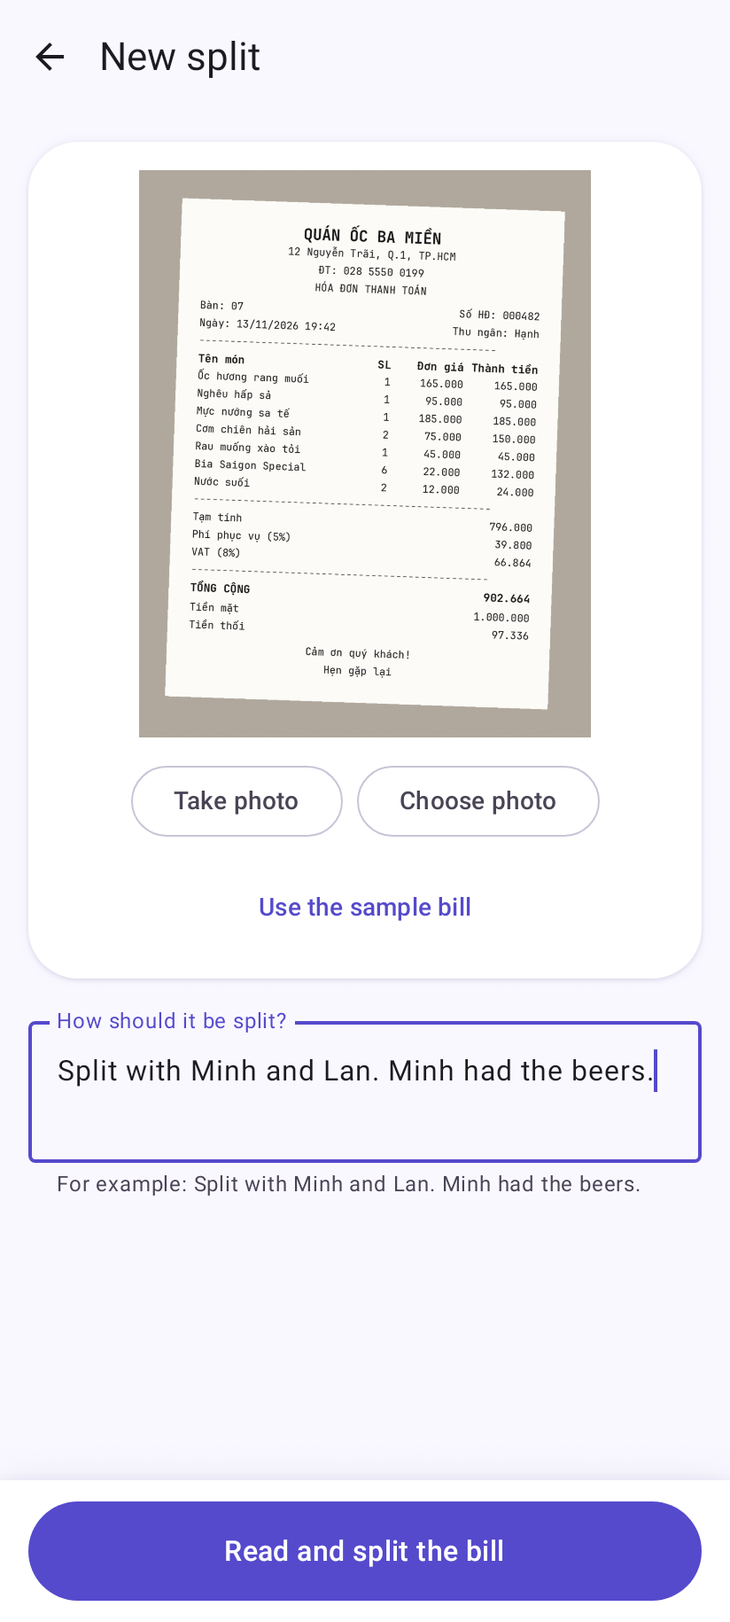
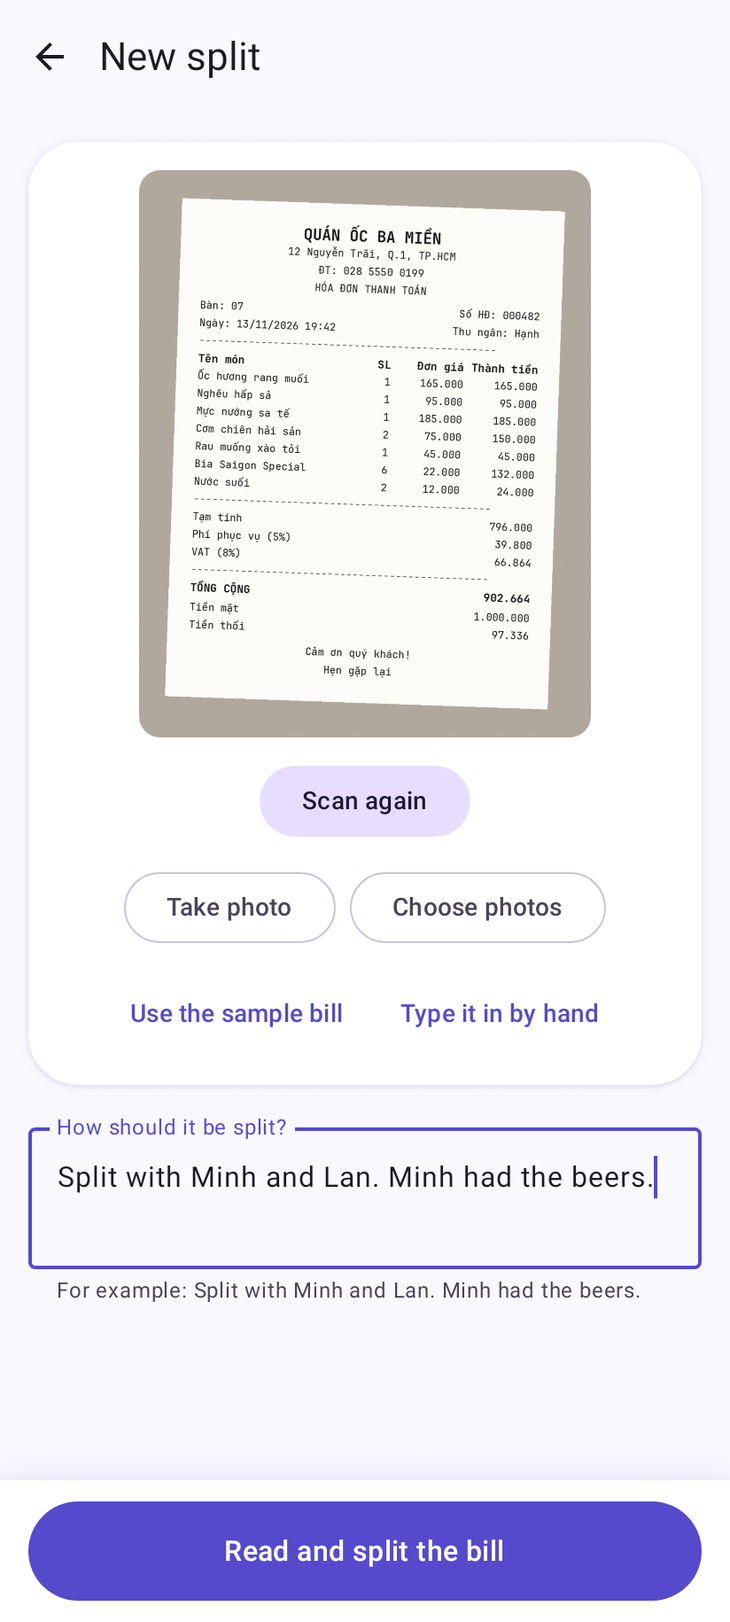
docs: describe the bills kept on the phone, the editor, scanning and split modes

Changed region(s): [[0.0303, 0.623, 0.9709, 0.7787], [0.2427, 0.4672, 0.7585, 0.5918], [0.0607, 0.7787, 0.8799, 0.8098]]

diff --git a/README.md b/README.md
@@ -3,10 +3,11 @@
 A proof-of-concept Android app (Kotlin, Jetpack Compose) for an AI "split bill" feature inside a
 payment app.
 
-You photograph a bill and type how it should be split. The phone reads the text of the bill with
-on-device OCR and sends that text and its position on the page to the app's AI proxy, a Cloudflare
-Worker that asks Claude and sends the bill back as structured data. The app then does the
-arithmetic itself and lets you pick the contacts who share the bill and who shares each item. The
+You scan or photograph a bill, in several pages if it is long, and type how it should be split.
+The phone reads the text of the bill with on-device OCR and sends that text and its position on the
+page to the app's AI proxy, a Cloudflare Worker that asks Claude and sends the bill back as
+structured data. The app then does the arithmetic itself: you correct anything that was misread,
+choose who is on the bill, how it is split and who paid, and every bill is kept on the phone. The
 app holds no API key.
 
 ```mermaid
@@ -17,20 +18,34 @@ flowchart LR
     P --> D[Claude Opus]
     D --> E[Items, charges, total, people named in the instruction]
     E --> F[Split calculator on the device]
-    F --> G[Pick people, assign items, request money]
+    F --> G[Correct the bill, choose people, split mode and payers]
+    G --> H[Bills kept on the phone]
 ```
 
 <img src="docs/screenshots/new-split.png" alt="New split screen with the sample bill and an instruction" width="300">
 
 ## What the app does
 
-1. **Home** shows the in-app contacts (other users of the payment app) and a "Split a bill" entry.
-2. **New split** takes a bill photo (camera, gallery, or the bundled sample bill) and an instruction
-   such as `Split with Minh and Lan. Minh had the beers.` or `We are 3, I didn't drink.`
-3. **Result** shows the items, the taxes and fees, and the total. People named in the instruction are
-   matched to contacts and pre-selected. You can add or remove people, tap an item to choose who
-   shares it, and see what each person pays. The shares always add up to the bill total.
-4. **Request** confirms the amounts that would be requested from each person. This step is a mock.
+1. **Home** shows the latest bills and a "Split a bill" entry. **See all** opens every bill kept on
+   the phone, to search by place, item or person, open again or delete.
+2. **New split** takes the bill and an instruction such as `Split with Minh and Lan. Minh had the
+   beers.` or `We are 3, I didn't drink.` The bill comes from Google's document scanner, which finds
+   its edges, straightens it and takes up to five pages; from the camera or the photo picker; from a
+   photo shared by another app; from the bundled sample bill; or it is typed in by hand.
+3. **Result** shows the items, the taxes and fees, and the total, and, for a bill in another
+   currency, what it comes to in your own at the day's rate or a rate you type in.
+   - **Who is on the bill:** everyone named in the instruction, anyone you add by name or from the
+     people you split with before, and anyone you pick in the phone's contact picker.
+   - **How it is split:** equally, by item, by shares, by percent or by exact amounts. Each item can
+     be divided its own way too.
+   - **Who paid:** one person, or several with an amount each.
+   - Every share is shown, and the shares always add up to the bill total.
+4. **Edit bill** corrects every item, quantity, price, tax, fee, discount and the total. When the
+   lines and the printed total disagree, it shows by how much and offers two ways to settle it.
+5. **Request** confirms the amounts that would be requested from each person. This step is a mock.
+   A finished split stays in the list and can be changed later.
+
+Every change is saved as a draft as it is made, so a split survives the app being closed.
 
 ## Run it
 
@@ -137,45 +152,66 @@ didn't drink"), which leaves it to everyone else. The model does not compute any
 - The currency and its precision come from the bill. A bill is never split finer than its prices
   are printed, and never finer than the currency allows. So a rupiah, forint or dong bill is split
   in whole units, and a dollar bill printed with cents is split to the cent.
-- A bill that shows no currency is taken to be in the app's local currency (Settings). A bill in a
-  different currency is split in its own currency and marked with a note; nothing is converted.
-- `BillReconciler` checks that items plus charges equal the total. If they do not, the printed total
-  wins and the gap is shown as an explicit "Unallocated difference" line with a warning. A line with
-  a negative amount, such as a voucher, is treated as a deduction on the whole bill.
-- `SplitCalculator` applies these rules:
-  - an item is shared equally by the people assigned to it, or by everyone when it is unassigned;
+- A bill that shows no currency is taken to be in the app's local currency (Settings). A bill in
+  another currency is split in its own currency. `ExchangeRate` also shows it in the local one, at
+  the day's rate the proxy hands out or at a rate the user types in; the shares stay in the bill's
+  currency.
+- `BillReconciler` turns a line with a negative amount, such as a voucher, into a deduction on the
+  whole bill. When the lines do not add up to the printed total, the printed total wins, the gap is
+  shared in proportion and shown, and `BillEditor` offers to use the lines as the total or to keep
+  the total and add the difference as a line.
+- `SplitCalculator` divides the whole bill equally, by shares, by percent (in hundredths) or by exact
+  amounts, or item by item:
+  - an item is shared equally by the people who had it, or divided its own way;
   - items shared by exactly the same group are added up and divided once;
   - taxes, fees, tips and discounts follow each person's items proportionally;
-  - with no assignments at all, the whole bill is divided equally;
-  - the unit that cannot be divided goes to the first person in the list, and the payer is listed first.
-- `SplitPlanner` and `NameMatcher` match the names from the instruction against the contact list on the
-  device. A contact is pre-selected only when the typed name is that person's full name, handle or
-  given name and nobody else fits as well. A surname or middle name alone, a name shared by two
-  contacts, or an unknown name is never guessed: the app shows a notice and the user picks the person.
+  - a part that cannot be divided goes by the largest remainder, or to the first person in the list,
+    and the user is listed first.
+- `SplitPlanner` turns every name in the instruction into someone on the bill. A name that is exactly
+  that of someone split with before is that person again; any other name is someone new, named as
+  typed, whom the user can rename. `NameMatcher` also suggests people split with before as a name
+  is typed.
+- `Payments` checks that what the payers paid adds up to the bill total. A split with a problem, such
+  as percentages that do not add up to 100, has no shares until it is fixed, and cannot be finished.
+
+### 4. Bills stay on the phone
+
+`BillRepository` keeps every bill in a Room database on the phone: the bill, who is on it, how it is
+split, who paid and the shares worked out from that. Each save writes the whole bill as the next
+revision, and a save from a copy that is no longer the latest is refused, so two screens editing the
+same bill cannot overwrite each other. A finished bill that a change leaves unbalanced becomes a
+draft again. The photos of a bill's pages are kept in the app's own storage and deleted with it. The
+screen on show, the bill and the photos come back after the system ends the app.
 
 ### Privacy
 
-Only the OCR text and the typed instruction leave the phone. The photo is never uploaded, and the
-contact list is never sent: the model only repeats names that appear in the instruction. The proxy
-keeps no bill text, name or address: it holds counters under salted hashes, and logs one line of
-numbers per request.
+Only the OCR text and the typed instruction leave the phone. The photos are never uploaded, and the
+app holds no permission to read contacts: the system's contact picker hands it the one name picked.
+Bills, people and photos stay on the phone. The request for exchange rates says nothing about who
+asks. The proxy keeps no bill text, name or address: it holds counters under salted hashes, and logs
+one line of numbers per request.
 
 ## Project layout
 
 ```text
 core/designsystem/            the look of the app: theme, tokens, components, motion
 core/domain/                  plain Kotlin, no Android: the money logic and the data contracts
-  domain/     Bill, BillCurrency, BillReconciler, SplitCalculator, SplitPlan, NameMatcher
-  ocr/        OcrResult, OcrLayoutEncoder
+  domain/     Bill, BillCurrency, BillEditor, BillReconciler, ExchangeRate, Participant, Payment,
+              SplitCalculator, SplitMode, SplitPlan, NameMatcher
+  ocr/        OcrResult, OcrLayoutEncoder (one page or several)
   llm/        BillAnalyzer, BillAnalysisParser
-  data/       Contact
 app/src/main/java/com/dantech/splitvibe/
   di/         the Koin module that wires the app together
   ocr/        BillTextRecognizer (ML Kit), BillImageLoader
+  scan/       DocumentScanner (Google's document scanner)
   llm/        GatewayBillAnalyzer, which reads a bill through the AI proxy
-  data/       account (install id, encrypted session, Google sign-in), proxy (the proxy's
-              routes over OkHttp), contacts (seeded), settings (local currency)
-  ui/         navigation, home, split (new split, result, sheets, confirmation), settings, theme
+  data/       bills (Room database, revisions, page photos), people (people split with before,
+              names from the contact picker), fx (exchange rates kept for offline use), account
+              (install id, encrypted session, Google sign-in), proxy (the proxy's routes over
+              OkHttp), settings (local currency)
+  ui/         navigation, home, history, split (new split, result, sheets, confirmation), editor,
+              settings
+app/schemas/                  the Room database schema, one file per version
 app/src/test/                 unit tests, UI tests on the JVM and the reference screenshots
 app/src/androidTest/          on-device tests
 app/src/sharedTest/resources/ recorded ML Kit output, a recorded Claude answer, and the request
@@ -195,20 +231,25 @@ describes the AI proxy: its routes, its limits, what it keeps, and how to run an
 ./gradlew :core:domain:test :core:designsystem:testDebugUnitTest :app:testProdDebugUnitTest
 ```
 
-129 tests cover the split rules (including 2,000 random bills whose shares must add up to the
-total without anyone owing a negative amount), currency handling, name matching, split planning, row
-layout, answer parsing, the proxy client, the account and sign-in, the UI flow, app startup,
-navigation, the dependency wiring, the text contrast of the colour palette, the motion, and the
-design system components.
+222 tests cover the split rules (for each of the five ways to split, 2,000 random bills whose shares
+must add up to the total, and payments that must too), editing a bill, currency handling and
+exchange rates, name matching, split planning, row layout of one page or several, answer parsing,
+the bills kept on the phone and their revisions, the proxy client, the account and sign-in, the UI
+flow, app startup, navigation, the dependency wiring, the text contrast of the colour palette, the
+motion, and the design system components.
 
 - The proxy client tests run the real client against a local server that answers as the proxy does.
   They pin down the request, which must match the shared fixture the proxy's tests send, and every
   kind of answer: the bill, free reads used up, sign-in run out, AI switched off, app too old,
   rate limits, busy, refused, too long, timeout, and an answer that stops half way.
 - `SplitFlowTest` walks through the real screens without a device (Robolectric): sample photo,
-  instruction, analysis, people pre-selected, exact shares, changing who shares an item, request
-  confirmation. It replays two recordings of the real pipeline: the text ML Kit read on a device
-  and the answer Claude Opus gave for it, streamed the way the proxy sends it.
+  instruction, analysis, the people named, exact shares, changing who shares an item, request
+  confirmation and the saved bill. It replays two recordings of the real pipeline: the text ML Kit
+  read on a device and the answer Claude Opus gave for it, streamed the way the proxy sends it.
+- `BillLifecycleTest` and `BillSafetyTest` follow a bill through its life on the phone: a bill of
+  three items typed in by hand, an item corrected, a draft brought back after the system ends the
+  app, a bill in dollars shown in dong, a copy saved elsewhere, a finished split broken by a change,
+  and the cases where a bill must not be overwritten or lose a photo.
 - `ScreenGalleryTest` draws every screen in the light and the dark theme, and the four main screens
   with text at twice its size, and compares each with the reference image in
   `app/src/test/screenshots`. After an intended visual change, record new images with
@@ -242,8 +283,8 @@ The other checks, all of which also run in GitHub Actions for every pull request
 ./gradlew :app:lintProdDebug :core:designsystem:lintDebug
 ```
 
-The AI proxy has its own 81 tests, which run in the workers runtime against a fake model. From
-`proxy/`:
+The AI proxy has its own 96 tests, which run in the workers runtime against a fake model and a fake
+source of exchange rates. From `proxy/`:
 
 ```bash
 npm test
@@ -254,24 +295,25 @@ npm test
 | What | How | Result |
 |---|---|---|
 | Build | `./gradlew :app:assembleProdDebug :app:assembleProdRelease :app:bundleProdRelease` (R8) | all three build; the release is unsigned unless the signing variables are set |
-| Unit tests | `./gradlew :core:domain:test :core:designsystem:testDebugUnitTest :app:testProdDebugUnitTest` | 129 pass |
+| Unit tests | `./gradlew :core:domain:test :core:designsystem:testDebugUnitTest :app:testProdDebugUnitTest` | 222 pass |
 | UI flow | `SplitFlowTest` on the JVM, with the real screens, view model and proxy client | passes |
-| AI proxy | `npm run typecheck` and `npm test` in `proxy/` | 81 pass; each rule about calls, holds and spend was also broken on purpose to see its test fail |
-| On-device tests | `./gradlew :app:pixel6Api34ProdDebugAndroidTest` in GitHub Actions, on an Android 14 emulator that Gradle manages | 8 tests; the proxy client test on a device has not run yet |
+| AI proxy | `npm run typecheck` and `npm test` in `proxy/` | 96 pass; each rule about calls, holds and spend was also broken on purpose to see its test fail |
+| Exchange rates, live | `GET /v1/fx-rates` on the deployed proxy | 161 currencies with their day, VND, USD, EUR, INR and THB among them |
+| On-device tests | `./gradlew :app:pixel6Api34ProdDebugAndroidTest` in GitHub Actions, on an Android 14 emulator that Gradle manages | 8 pass, the sample bill split from the photo to the sent requests among them |
 | OCR | Real ML Kit on two rendered receipts (Vietnamese, tilted 2 degrees; US, tilted 3 degrees) | every item row came back with its prices on the same row |
 | Prompt and schema | The exact system prompt and schema, with the real ML Kit output, sent to Claude Opus 5.5 | items, charges and totals correct for English, Vietnamese and German instructions; tips, "X had", "X didn't have" and "I didn't have" understood; a noisy bill with misread digits and an injected instruction still reconciled; a parking sign was rejected as not a bill; a rupiah bill came back with zero decimals and a bill without a currency symbol in the app's local currency |
 
 What has not been verified:
 
-- **A live call through the proxy.** The proxy is tested against a fake model and the app against a
-  stand-in for the proxy; the request is the same in both. The proxy has not been deployed, so no
-  bill has gone from the app through the proxy to the live API yet. That needs the owner's
-  Cloudflare account, Anthropic key and Google OAuth clients ([docs/proxy.md](docs/proxy.md)).
+- **A live bill read through the proxy.** The proxy is deployed and hands out exchange rates, but
+  its Anthropic key is not set yet, so no bill has gone from the app through the proxy to the live
+  API. The proxy is tested against a fake model and the app against a stand-in for the proxy; the
+  request is the same in both ([docs/proxy.md](docs/proxy.md)).
+- **Scanning, sharing and picking contacts on a phone.** The document scanner needs Google Play
+  services, and a bill of two pages, a photo shared from the gallery and the system contact picker
+  have not been tried on a device yet.
 - **Google sign-in on a phone.** Credential Manager needs the OAuth clients, so sign-in has only been
   tested with a stand-in for Google's account picker.
-- **The screens after analysis on a device.** The home and new-split screens were seen running on
-  the emulator. The result, item and confirmation screens were exercised only in `SplitFlowTest`,
-  because the emulator session ended before the on-device walk-through finished.
 - **A physical phone.** Everything on-device ran on an emulator.
 - **The release build at runtime.** It builds with R8, but only debug builds were run.
 - **Performance numbers.** The benchmarks in `baseline-profile` exist but have not been run on a
@@ -281,24 +323,26 @@ What has not been verified:
 
 - **Free reads are per install.** Clearing the app's data makes a new install with 3 new reads. The
   proxy's limits per network address and its daily spend caps bound what that can cost.
-- **Mock data.** Contacts are seeded in `SeededContactRepository`, and "Request" creates nothing.
+- **"Request" creates nothing.** The app never moves money.
 - **Latin script only.** Chinese, Japanese, Korean and Devanagari need the matching ML Kit artifacts.
-- **No currency conversion.** A bill in another currency than the app's local currency stays in
-  its own currency. Converting would need an exchange rate source.
+- **Converted amounts are only shown.** A bill in another currency is split and kept in its own
+  currency; the day's rate comes from Frankfurter through the proxy and may be a day or two old.
+- **Bills stay on one phone.** There is no sync between devices yet, and clearing the app's data
+  deletes the bills.
 - **Bills printed without decimals are split in whole units**, including the rare dollar or euro bill
   that shows no cents.
 - **App size.** ML Kit ships native code for four CPU types, so the release APK is large; an app
   bundle splits it per device.
-- **State is in memory.** A split in progress survives rotation but not the app being killed.
 - **English UI strings** are written inline rather than in string resources.
-- **Very long bills** could exceed the answer token limit; the app then asks for two photos.
+- **Very long bills** could exceed the answer token limit; the app then asks to photograph only the
+  lines that matter, or to type the bill in by hand.
 
 ## Toolchain
 
 Android Gradle Plugin 9.1.1 (built-in Kotlin), Gradle 9.4.1, Kotlin 2.3.21, Compose BOM 2026.09.00
 (Compose UI 1.12.1) with material3 pinned to 1.5.0-rc01, compileSdk 37, targetSdk 36, minSdk 26,
-Koin 4.2.2, Navigation 3 1.2.1, ML Kit text-recognition 16.0.1, OkHttp 4.12.0, Credential Manager
-1.6.0 with Google ID 1.2.1. The AI proxy: TypeScript 5.9 on Cloudflare Workers with Durable Objects,
+Koin 4.2.2, Navigation 3 1.2.1, Room 2.8.5 with KSP 2.3.12, ML Kit text-recognition 16.0.1 and
+document scanner 16.0.0, OkHttp 4.12.0, Credential Manager 1.6.0 with Google ID 1.2.1. The AI proxy: TypeScript 5.9 on Cloudflare Workers with Durable Objects,
 wrangler 4.162.0, `@anthropic-ai/sdk` 1.8.0, jose 6.2.17, vitest 5.1.0.
 
 ## License

diff --git a/docs/architecture.md b/docs/architecture.md
@@ -8,29 +8,29 @@ only what is in the repository now.
 
 ```mermaid
 flowchart LR
-    app[":app<br/>screens, navigation, dependency wiring,<br/>ML Kit text recognition, the AI proxy client"]
+    app[":app<br/>screens, navigation, dependency wiring,<br/>ML Kit text recognition and scanning,<br/>the bills on the phone, the AI proxy client"]
     domain[":core:domain<br/>plain Kotlin: money, split rules,<br/>data contracts, answer parsing"]
     design[":core:designsystem<br/>theme, tokens,<br/>components, motion"]
     profile[":baseline-profile<br/>records the startup profile,<br/>holds the benchmarks"]
     app --> domain
     app --> design
     profile -. drives and measures .-> app
-    proxy["proxy/<br/>Cloudflare Worker:<br/>prompt, calls, limits, Claude"]
+    proxy["proxy/<br/>Cloudflare Worker:<br/>prompt, calls, limits, Claude,<br/>the day's exchange rates"]
     app -. HTTPS .-> proxy
 ```
 
 | Module | Kind | Holds |
 |---|---|---|
-| `:app` | Android application | Compose screens, `AppNavHost`, the Koin module, `MlKitBillTextRecognizer`, `GatewayBillAnalyzer` and `ProxyApi` (the proxy's routes over OkHttp), the account (install id, encrypted session, Google sign-in through Credential Manager), settings storage |
-| `:core:domain` | Kotlin JVM library | `Bill`, `BillCurrency`, `BillReconciler`, `SplitCalculator`, `SplitPlan`, `NameMatcher`, `Contact`, `OcrResult`, `OcrLayoutEncoder`, `BillAnalyzer`, `BillAnalysisParser` |
+| `:app` | Android application | Compose screens, `AppNavHost`, the Koin module, `MlKitBillTextRecognizer`, `DocumentScanner`, `GatewayBillAnalyzer` and `ProxyApi` (the proxy's routes over OkHttp), the bills kept on the phone (`SplitVibeDatabase`, `BillRepository`, `BillPages`), the people split with before (`PeopleRepository`, `ContactNames`), the exchange rates (`FxRepository`), the account (install id, encrypted session, Google sign-in through Credential Manager), settings storage |
+| `:core:domain` | Kotlin JVM library | `Bill`, `BillCurrency`, `BillEditor`, `BillReconciler`, `ExchangeRate`, `Participant`, `Person`, `Payment`, `SplitMode`, `SplitCalculator`, `SplitPlan`, `NameMatcher`, `OcrResult`, `OcrLayoutEncoder`, `BillAnalyzer`, `BillAnalysisParser` |
 | `:core:designsystem` | Android library | `SplitVibeTheme` (Material 3 Expressive, violet palette, light and dark); the colour, type, spacing, shape and elevation tokens; the components (`Sv…`); the motion pieces (`SvAmount`, `SvSteps`, `sharedSurface` and others) |
 | `:baseline-profile` | Android test module | `BaselineProfileGenerator`, `StartupBenchmark`, `SplitFlowBenchmark` |
 | `proxy/` | Cloudflare Worker, TypeScript | the prompt and answer schema, the calls per install and per Google account, the limits per address, the daily spend caps, the Google ID token check and the proxy's own session; described in [proxy.md](proxy.md) |
 
 `:core:domain` applies only the Kotlin JVM plugin, so it cannot import an Android class. Everything
 that decides how much a person pays lives there and is tested without a device. The package names
-are the same in both modules (`com.dantech.splitvibe.domain`, `.ocr`, `.llm`, `.data.contacts`), so
-moving a file between them does not change any import.
+are the same in both modules (`com.dantech.splitvibe.domain`, `.ocr`, `.llm`), so moving a file
+between them does not change any import.
 
 `:core:designsystem` owns how the app looks. A screen wraps itself in nothing: `MainActivity` applies
 `SplitVibeTheme` once, and screens read colours, type and elevation from it.
@@ -51,7 +51,7 @@ are worth knowing before changing it:
 
 ### Dependency wiring
 
-`di/AppModule.kt` is one Koin module that lists every long-lived object and the view model.
+`di/AppModule.kt` is one Koin module that lists every long-lived object and the view models.
 `SplitVibeApp` starts Koin when the process starts. Screens get objects with `koinViewModel()` and
 `koinInject()`.
 
@@ -62,7 +62,7 @@ A wiring mistake fails the checks instead of crashing a screen.
 ### Navigation
 
 `ui/AppNavHost.kt` uses Navigation 3. The back stack is a list of keys (`HomeKey`, `SplitKey`,
-`SettingsKey`) that the screen code owns directly:
+`HistoryKey`, `SettingsKey`) that the screen code owns directly:
 
 - The keys are `@Serializable`, so the list is saved with the activity and the open screens come
   back after the system recreates it.
@@ -73,13 +73,16 @@ A wiring mistake fails the checks instead of crashing a screen.
   shrinks back into it during that preview (`Modifier.sharedSurface`). A screen that needs back for something else declares a
   `BackHandler`, and that one wins while it is enabled. `SplitScreen` uses this to cancel running
   work before it lets the user leave.
-- Inside the split screen the three steps (photo, result, sent requests) follow from the view
+- Inside the split screen the four steps (photo, editor, result, sent requests) follow from the view
   model's state and fade into each other through `SvSteps`. Each step carries the state it shows,
   so a step that is being left is drawn unchanged while it fades out, and back always belongs to
   the step on screen. The button that sends the requests turns into the mark that confirms them.
 - Two decorators wrap every screen: one keeps `rememberSaveable` state per screen, the other gives
   each screen its own view model store. `SplitBillViewModel` is requested above `NavDisplay` on
   purpose, so a split in progress survives a visit to Settings.
+- A bill opened from Home or the list of bills opens the split screen on its result, and back
+  returns to where it was opened from. Photos shared from another app open a new split with them
+  (`MainActivity` takes them from the share intent).
 
 To add a screen: declare a `@Serializable data object` (or data class) that implements `NavKey`, add
 an `entry<ThatKey> { ... }` to the `entryProvider` block, and open it with `backStack.open(ThatKey)`.
@@ -88,17 +91,23 @@ an `entry<ThatKey> { ... }` to the `entryProvider` block, and open it with `back
 
 ```mermaid
 flowchart LR
-    photo[Bill photo] --> ocr[ML Kit on the device]
-    ocr --> rows[OcrLayoutEncoder:<br/>rows of text with positions]
+    photo[Pages of the bill] --> ocr[ML Kit on the device]
+    ocr --> rows[OcrLayoutEncoder:<br/>rows of text with positions, per page]
     rows --> client[GatewayBillAnalyzer]
     client --> proxy[AI proxy: prompt, schema, Claude]
     proxy --> parser[BillAnalysisParser]
     parser --> calc[BillReconciler and SplitCalculator]
-    calc --> ui[Result screen]
+    calc --> ui[Result screen and editor]
+    ui --> store[BillRepository: one revision per save]
 ```
 
 The model reads the bill and reports what the instruction says about people. It never computes a
-share: the arithmetic is done in `:core:domain`, in whole minor units of the bill's currency. The
+share: the arithmetic is done in `:core:domain`, in whole minor units of the bill's currency.
+`SplitBillViewModel` saves the bill a moment after each change. Each save writes the whole bill as
+the next revision of the copy the screen descends from, and Room refuses it when that copy is no
+longer the latest, so two writers never overwrite each other. Reading other photos or typing a bill
+in by hand starts a new bill; only reading the same photos again replaces their bill. What was on
+screen comes back from `SavedStateHandle` and the database after the system ends the app. The
 proxy streams its answer as lines of JSON, and the app's error kinds follow the proxy's codes: free
 reads used up, sign-in run out, AI switched off, app too old, busy, refused, too long.
 The [README](../README.md) describes each step in detail.
@@ -149,7 +158,7 @@ For the checks to guard `main`, the repository has to require them: in the branc
 | Check | Command | What it guards |
 |---|---|---|
 | Code style | `./gradlew ktlintCheck` | The rules in `.editorconfig`. `./gradlew ktlintFormat` fixes most findings. |
-| Unit tests | `./gradlew :core:domain:test :core:designsystem:testDebugUnitTest :app:testProdDebugUnitTest` | Split rules, parsing, the proxy client and the account against a stand-in for the proxy, the UI flow, app startup, navigation and back handling, text contrast of the palette |
+| Unit tests | `./gradlew :core:domain:test :core:designsystem:testDebugUnitTest :app:testProdDebugUnitTest` | Split rules for every way to split, editing, exchange rates, parsing, the bills on the phone and their revisions, the proxy client and the account against a stand-in for the proxy, the UI flow, app startup, navigation and back handling, text contrast of the palette |
 | Screenshots | part of the unit tests | Every screen against the reference images in `app/src/test/screenshots` |
 | Android Lint | `./gradlew :app:lintProdDebug :core:designsystem:lintDebug` | Platform and API misuse |
 | Packages | `./gradlew :app:assembleProdDebug :app:assembleProdRelease :app:bundleProdRelease` | The debug package, the shrunk release package and the app bundle all build, and none of them, nor the dev package, holds a class of `com.anthropic` |
